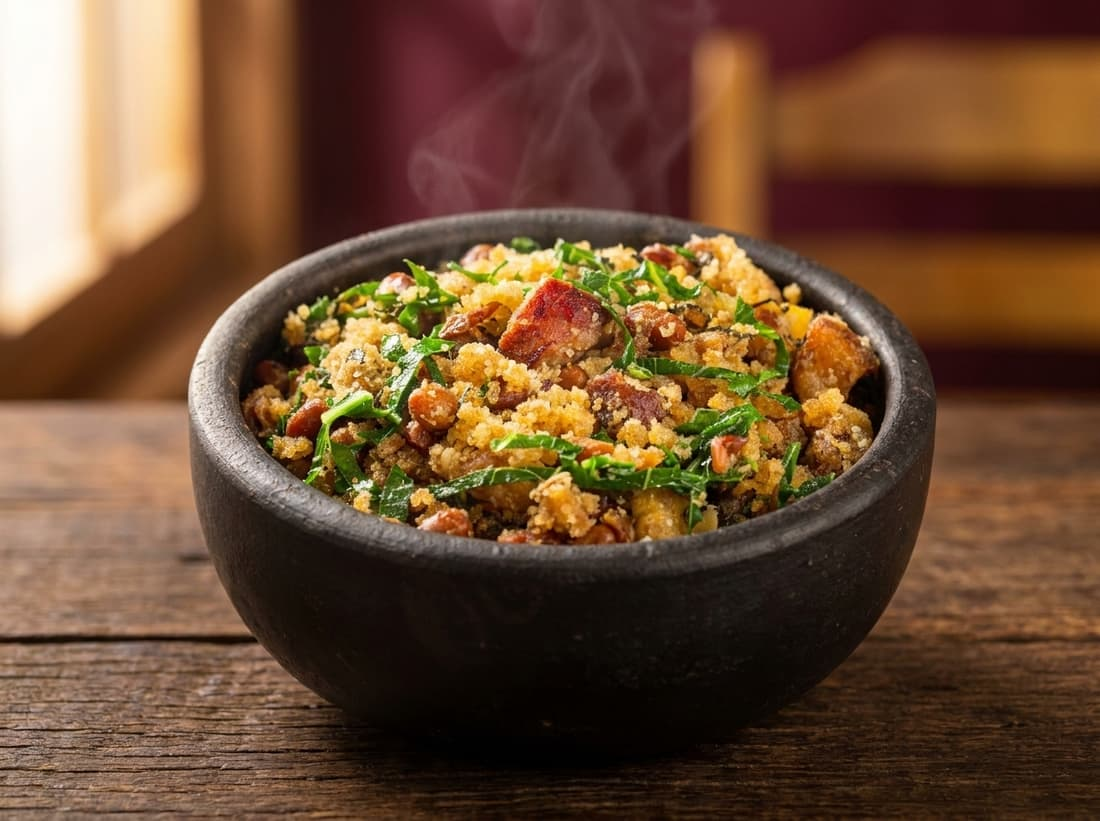
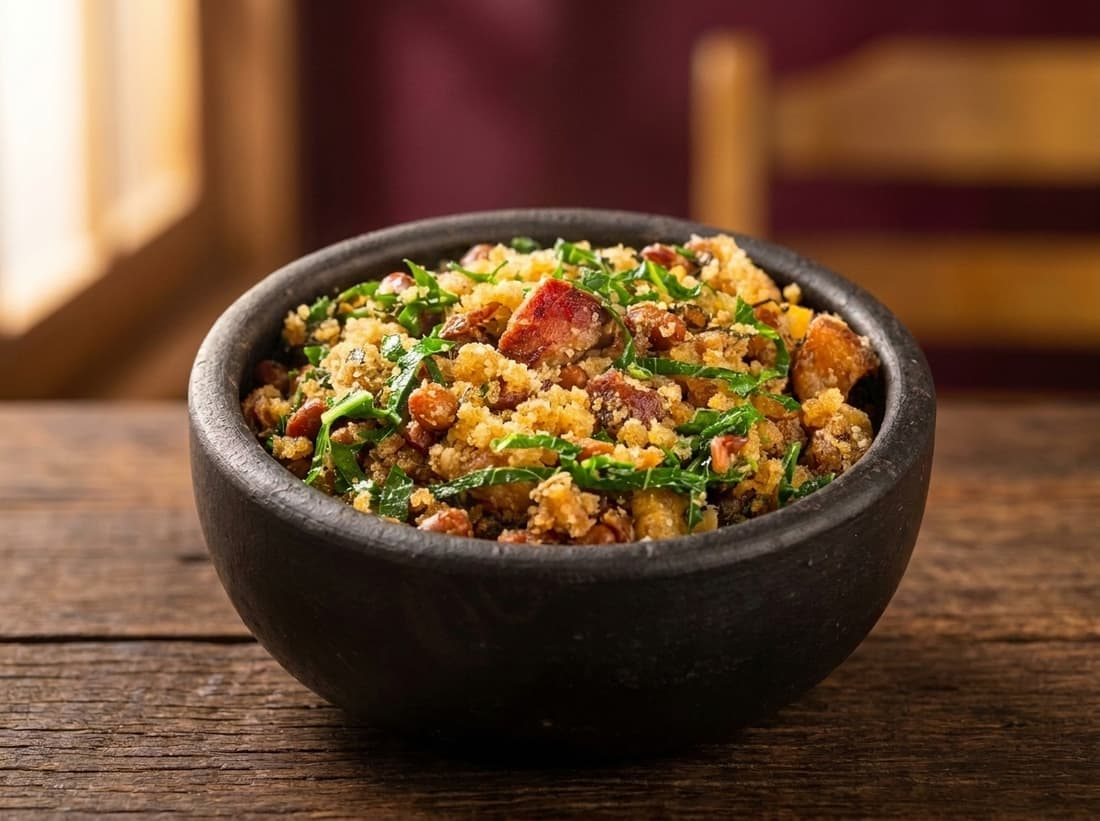
Carrinho de pedidos + retirada/entrega no WhatsApp

diff --git a/src/styles/global.css b/src/styles/global.css
@@ -206,3 +206,61 @@ footer.site a{color:var(--gold-soft)}
   .grid{grid-template-columns:repeat(3,1fr)}
   .info .container-grid{grid-template-columns:1.1fr 1fr 1.3fr}
 }
+
+/* ---------- Pedido no carrinho / WhatsApp ---------- */
+.add{display:flex;align-items:center}
+.mini.add-btn{background:var(--wa);color:#fff;border:none;cursor:pointer;font-weight:700;font-size:.85rem;padding:.5rem .9rem;border-radius:999px;display:inline-flex;gap:.35rem;align-items:center;line-height:1}
+.mini.add-btn:hover{background:var(--wa-dark)}
+.stepper{display:inline-flex;align-items:center;gap:.55rem;border:1px solid var(--line);background:#fff;border-radius:999px;padding:.25rem .35rem}
+.stepper .step{width:30px;height:30px;border:none;border-radius:50%;background:var(--wa);color:#fff;font-size:1.15rem;font-weight:800;line-height:1;cursor:pointer;display:grid;place-items:center}
+.stepper .step:hover{background:var(--wa-dark)}
+.stepper .qty{min-width:1.3rem;text-align:center;font-weight:800;color:var(--wood)}
+
+/* Barra flutuante */
+.cartbar{position:fixed;left:0;right:0;bottom:0;z-index:60;display:flex;justify-content:center;padding:12px 12px calc(12px + env(safe-area-inset-bottom));pointer-events:none}
+.cartbar-btn{pointer-events:auto;background:var(--wood);color:#fff;border:none;border-radius:999px;padding:.85rem 1.1rem;font-weight:800;font-size:1rem;display:flex;align-items:center;gap:.6rem;box-shadow:0 12px 30px rgba(60,25,10,.35);cursor:pointer}
+.cartbar-btn:hover{filter:brightness(1.06)}
+.cartbar-count{background:#fff;color:var(--wood);min-width:1.5rem;height:1.5rem;border-radius:999px;display:grid;place-items:center;font-size:.85rem;padding:0 .35rem}
+.cartbar-label{opacity:.95}
+.cartbar-total{margin-left:.2rem;padding-left:.7rem;border-left:1px solid rgba(255,255,255,.35)}
+body.has-cart .fab{bottom:88px}
+
+/* Painel */
+.cart-overlay{position:fixed;inset:0;background:rgba(30,12,4,.5);z-index:70}
+.cart-panel{position:fixed;z-index:80;top:0;right:0;bottom:0;width:min(430px,100%);background:#fff;display:flex;flex-direction:column;box-shadow:-12px 0 44px rgba(0,0,0,.28)}
+.cart-head{display:flex;align-items:center;justify-content:space-between;padding:16px 18px;border-bottom:1px solid var(--line)}
+.cart-head h3{margin:0;font-family:var(--display);color:var(--wood);font-size:1.3rem}
+.cart-close{border:none;background:transparent;font-size:1.7rem;line-height:1;cursor:pointer;color:var(--muted);width:40px;height:40px;border-radius:8px}
+.cart-close:hover{background:#f3ece2}
+.cart-scroll{flex:1;overflow-y:auto;padding:16px 18px}
+.cart-empty{color:var(--muted);text-align:center;padding:2rem 1rem}
+.cart-items{display:flex;flex-direction:column;gap:12px}
+.ci{display:grid;grid-template-columns:1fr auto auto;align-items:center;gap:10px;padding-bottom:12px;border-bottom:1px dashed var(--line)}
+.ci-info{display:flex;flex-direction:column;min-width:0}
+.ci-nome{font-weight:700;color:var(--wood);font-size:.98rem}
+.ci-sub{color:var(--muted);font-size:.8rem}
+.ci-line{font-weight:800;color:var(--brand-dark);white-space:nowrap;min-width:4.5rem;text-align:right}
+.cart-fields{display:flex;flex-direction:column;gap:12px;margin-top:18px}
+.cart-fields label{display:flex;flex-direction:column;gap:.35rem;font-weight:700;color:var(--wood);font-size:.9rem}
+.cart-fields input,.cart-fields textarea{font:inherit;font-weight:400;padding:.6rem .7rem;border:1px solid var(--line);border-radius:10px;background:#fbf7f1;color:inherit;resize:vertical}
+.cart-fields input:focus,.cart-fields textarea:focus{outline:2px solid var(--wa);border-color:var(--wa)}
+.cart-foot{border-top:1px solid var(--line);padding:14px 18px calc(14px + env(safe-area-inset-bottom));background:#fff}
+.cart-total{display:flex;align-items:center;justify-content:space-between;margin-bottom:10px;font-size:1.05rem}
+.cart-total strong{font-size:1.35rem;color:var(--brand-dark)}
+.cart-checkout{width:100%;justify-content:center}
+.cart-checkout[disabled]{opacity:.5;cursor:not-allowed}
+.cart-note{color:var(--muted);font-size:.78rem;text-align:center;margin:.6rem 0 0}
+body.cart-open{overflow:hidden}
+@media (max-width:560px){
+  .cart-panel{width:100%}
+  .cartbar-btn{width:100%;justify-content:center;max-width:420px}
+}
+
+/* Tipo de pedido: retirada / entrega */
+.ordertype{display:grid;grid-template-columns:1fr 1fr;gap:8px}
+.ot-opt{position:relative;display:flex;align-items:center;justify-content:center;gap:.4rem;padding:.6rem .5rem;border:1px solid var(--line);border-radius:10px;background:#fbf7f1;font-weight:700;color:var(--wood);cursor:pointer;font-size:.92rem;text-align:center}
+.ot-opt input{position:absolute;opacity:0;inset:0;cursor:pointer;margin:0}
+.ot-opt:has(input:checked){background:var(--wa);border-color:var(--wa);color:#fff}
+.ot-opt:has(input:focus-visible){outline:2px solid var(--wood);outline-offset:2px}
+.delivery-note{margin:0;font-size:.82rem;color:var(--brand-dark);background:#fdeede;border:1px solid #f3d9be;border-radius:10px;padding:.55rem .7rem}
+.cart-deliv{margin:-4px 0 10px;font-size:.82rem;color:var(--muted);text-align:right}
